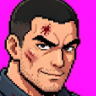
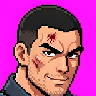
feat(art): 第二幕美术素材入库
- 新增3类战斗杂兵敌人立绘与头像：沈氏黑衣死士/异国武装水手/初代买办死士
- 新增历史角色立绘与头像：林则徐/道光皇帝
- 新增历史场景背景：紫禁城乾清宫/虎门古港
- 更新老爸海峰三态头像（日常/特警/战损）
- avatar.js 补录第二幕角色与敌人状态映射（含覃瑞怡 resolute 态）

diff --git a/src/engine/avatar.js b/src/engine/avatar.js
@@ -53,7 +53,7 @@ const ACTOR_STATES = {
   fanwenmo: ['default', 'corrupted'],
   zhanghanyu: ['default', 'corrupted'],
   heyanxi: ['default', 'corrupted'],
-  qinruiyi: ['default', 'corrupted'],
+  qinruiyi: ['default', 'corrupted', 'resolute'],
   zhangxizhe: ['default', 'corrupted'],
   zhuyanze: ['default', 'corrupted'],
   xu_laoshi: ['default'],
@@ -77,7 +77,20 @@ const ACTOR_STATES = {
   young_liu: ['default'],
   young_xu: ['default'],
   senior_student: ['default', 'corrupted'],
-  janitor: ['default', 'corrupted']
+  janitor: ['default', 'corrupted'],
+  /* 第二幕核心角色 */
+  father_haifeng: ['default', 'police', 'battle_damaged'],
+  shen_chongli: ['default'],
+  shen_wanting: ['old'],
+  militia_instructor: ['1839'],
+  berserker_guard: ['heavy'],
+  boss_colossus: ['opium_god'],
+  lin_zexu: ['imperial_commissioner'],
+  emperor_daoguang: ['palace'],
+  /* 第二幕普通杂兵敌人 */
+  shen_guard: ['default'],
+  foreign_sailor: ['1839'],
+  comprador_assassin: ['1839']
 };
 
 /* ───────────── 内部工具 ───────────── */
